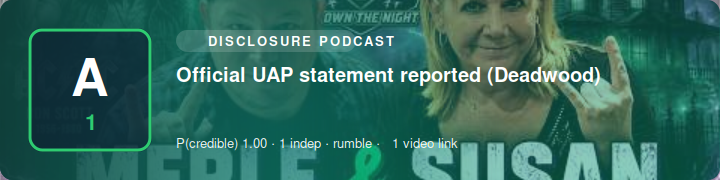
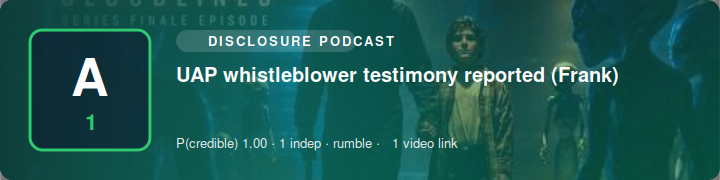
SITREP 2026-07-22 04:20 UTC

diff --git a/index.html b/index.html
@@ -1,1 +1,1 @@
-<!doctype html><meta charset=utf-8><title>Science Bob News — SITREP</title><style>body{font:16px/1.5 system-ui,sans-serif;max-width:760px;margin:2rem auto;padding:0 1rem;color:#111}h1{font-size:1.5rem}h2{margin-top:1.6rem;border-bottom:1px solid #ddd;padding-bottom:.2rem}ul{list-style:none;padding:0}li{margin:.9rem 0}.hl{font-weight:600}.meta{color:#555;font-size:.85rem}.src{font-size:.85rem}.vid{font-size:.85rem;margin-top:.15rem}.card{display:block;max-width:100%;height:auto;border-radius:8px;margin:.4rem 0 .5rem}.upd{background:#fde68a;padding:0 .3rem;border-radius:.2rem;font-size:.75rem}.sub{color:#777;font-size:.85rem}footer{color:#777;font-size:.8rem;margin-top:2rem;border-top:1px solid #ddd;padding-top:.6rem}</style><h1>🛸 Science Bob News</h1><div class="sub">UAP / UFO / USO SITREP · updated 2026-07-22 04:10 UTC · automated</div><h2>Corroborated</h2><ul><li><i>No corroborated reports.</i></li></ul><h2>Developing / unconfirmed</h2><ul><li><img class="card" src="https://n4hy.github.io/sciencebobnews-site/card_d_1.svg" alt="" width="720" height="180"><div class="hl">Official UAP statement reported (Newly)</div><div class="meta">reliability <b>A1</b> · P(credible)=1.0 · 1 independent source(s) · mastodon</div><div class="src"><a href="https://mastodon.au/@vibewire/116957536031397754">@vibewire@mastodon.au</a></div></li><li><img class="card" src="https://n4hy.github.io/sciencebobnews-site/card_d_2.svg" alt="" width="720" height="180"><div class="hl">UAP report</div><div class="meta">reliability <b>A1</b> · P(credible)=1.0 · 1 independent source(s) · mastodon</div><div class="src"><a href="https://mastodon.social/@inkican/116953294536957948">@inkican</a></div></li><li><img class="card" src="https://n4hy.github.io/sciencebobnews-site/card_d_3.svg" alt="" width="720" height="180"><div class="hl">Official UAP statement reported (Concrete)</div><div class="meta">reliability <b>A1</b> · P(credible)=1.0 · 1 independent source(s) · rumble</div><div class="src"><a href="https://www.youtube.com/watch?v=ze5dhbpzszY">@podcast</a></div><div class="vid">📹 <a href="https://www.youtube.com/watch?v=ze5dhbpzszY">video</a></div></li><li><img class="card" src="https://n4hy.github.io/sciencebobnews-site/card_d_4.svg" alt="" width="720" height="180"><div class="hl">Official UAP statement reported (Deadwood)</div><div class="meta">reliability <b>A1</b> · P(credible)=1.0 · 1 independent source(s) · rumble</div><div class="src"><a href="https://www.youtube.com/watch?v=9fXiv3_PjGY">@podcast</a></div><div class="vid">📹 <a href="https://www.youtube.com/watch?v=9fXiv3_PjGY">video</a></div></li><li><img class="card" src="https://n4hy.github.io/sciencebobnews-site/card_d_5.svg" alt="" width="720" height="180"><div class="hl">Official UAP statement reported (History)</div><div class="meta">reliability <b>A1</b> · P(credible)=1.0 · 1 independent source(s) · rumble</div><div class="src"><a href="https://www.youtube.com/watch?v=mVKGdqjpbf8">@podcast</a></div><div class="vid">📹 <a href="https://www.youtube.com/watch?v=mVKGdqjpbf8">video</a></div></li></ul><footer><b>Powered by Science Bob News.</b> Free to use with credit (see LICENSE). Headlines are factual restatements in the engine's own words; click sources for originals. Single-origin reposts collapse to one source; prosaic candidates flagged where offered.</footer>
+<!doctype html><meta charset=utf-8><title>Science Bob News — SITREP</title><style>body{font:16px/1.5 system-ui,sans-serif;max-width:760px;margin:2rem auto;padding:0 1rem;color:#111}h1{font-size:1.5rem}h2{margin-top:1.6rem;border-bottom:1px solid #ddd;padding-bottom:.2rem}ul{list-style:none;padding:0}li{margin:.9rem 0}.hl{font-weight:600}.meta{color:#555;font-size:.85rem}.src{font-size:.85rem}.vid{font-size:.85rem;margin-top:.15rem}.card{display:block;max-width:100%;height:auto;border-radius:8px;margin:.4rem 0 .5rem}.upd{background:#fde68a;padding:0 .3rem;border-radius:.2rem;font-size:.75rem}.sub{color:#777;font-size:.85rem}footer{color:#777;font-size:.8rem;margin-top:2rem;border-top:1px solid #ddd;padding-top:.6rem}</style><h1>🛸 Science Bob News</h1><div class="sub">UAP / UFO / USO SITREP · updated 2026-07-22 04:20 UTC · automated</div><h2>Corroborated</h2><ul><li><i>No corroborated reports.</i></li></ul><h2>Developing / unconfirmed</h2><ul><li><img class="card" src="https://n4hy.github.io/sciencebobnews-site/card_d_1.svg" alt="" width="720" height="180"><div class="hl">Official UAP statement reported (Newly)</div><div class="meta">reliability <b>A1</b> · P(credible)=1.0 · 1 independent source(s) · mastodon</div><div class="src"><a href="https://mastodon.au/@vibewire/116957536031397754">@vibewire@mastodon.au</a></div></li><li><img class="card" src="https://n4hy.github.io/sciencebobnews-site/card_d_2.svg" alt="" width="720" height="180"><div class="hl">UAP report</div><div class="meta">reliability <b>A1</b> · P(credible)=1.0 · 1 independent source(s) · mastodon</div><div class="src"><a href="https://mastodon.social/@inkican/116953294536957948">@inkican</a></div></li><li><img class="card" src="https://n4hy.github.io/sciencebobnews-site/card_d_3.svg" alt="" width="720" height="180"><div class="hl">UAP report (McMinnville)</div><div class="meta">reliability <b>A1</b> · P(credible)=1.0 · 1 independent source(s) · rumble</div><div class="src"><a href="https://www.youtube.com/watch?v=7OT6uJ0yzVY">@podcast</a></div><div class="vid">📹 <a href="https://www.youtube.com/watch?v=7OT6uJ0yzVY">video</a></div></li><li><img class="card" src="https://n4hy.github.io/sciencebobnews-site/card_d_4.svg" alt="" width="720" height="180"><div class="hl">UAP whistleblower testimony reported (Frank)</div><div class="meta">reliability <b>A1</b> · P(credible)=1.0 · 1 independent source(s) · rumble</div><div class="src"><a href="https://www.youtube.com/watch?v=CxvFVjJKZtA">@podcast</a></div><div class="vid">📹 <a href="https://www.youtube.com/watch?v=CxvFVjJKZtA">video</a></div></li><li><img class="card" src="https://n4hy.github.io/sciencebobnews-site/card_d_5.svg" alt="" width="720" height="180"><div class="hl">UAP whistleblower testimony reported (American)</div><div class="meta">reliability <b>A1</b> · P(credible)=1.0 · 1 independent source(s) · rumble</div><div class="src"><a href="https://www.youtube.com/watch?v=LPtMaGpuK-M">@podcast</a></div><div class="vid">📹 <a href="https://www.youtube.com/watch?v=LPtMaGpuK-M">video</a></div></li></ul><footer><b>Powered by Science Bob News.</b> Free to use with credit (see LICENSE). Headlines are factual restatements in the engine's own words; click sources for originals. Single-origin reposts collapse to one source; prosaic candidates flagged where offered.</footer>

diff --git a/sitrep.md b/sitrep.md
@@ -1,5 +1,5 @@
 # 🛸 Science Bob News — UAP / UFO / USO SITREP
-*Updated 2026-07-22 04:10 UTC · auto-generated · sources credited & linked · reliability ratings are automated, not editorial*
+*Updated 2026-07-22 04:20 UTC · auto-generated · sources credited & linked · reliability ratings are automated, not editorial*
 
 ## Corroborated
 _No corroborated reports this cycle._
@@ -14,20 +14,20 @@ _No corroborated reports this cycle._
 2. UAP report — reliability A1 · 1 source(s)  
    [@inkican](https://mastodon.social/@inkican/116953294536957948)
 
-![Official UAP statement reported (Concrete)](https://n4hy.github.io/sciencebobnews-site/card_d_3.svg)
-3. Official UAP statement reported (Concrete) — reliability A1 · 1 source(s)  
-   [@podcast](https://www.youtube.com/watch?v=ze5dhbpzszY)  
-   📹 [video](https://www.youtube.com/watch?v=ze5dhbpzszY)
+![UAP report (McMinnville)](https://n4hy.github.io/sciencebobnews-site/card_d_3.svg)
+3. UAP report (McMinnville) — reliability A1 · 1 source(s)  
+   [@podcast](https://www.youtube.com/watch?v=7OT6uJ0yzVY)  
+   📹 [video](https://www.youtube.com/watch?v=7OT6uJ0yzVY)
 
-![Official UAP statement reported (Deadwood)](https://n4hy.github.io/sciencebobnews-site/card_d_4.svg)
-4. Official UAP statement reported (Deadwood) — reliability A1 · 1 source(s)  
-   [@podcast](https://www.youtube.com/watch?v=9fXiv3_PjGY)  
-   📹 [video](https://www.youtube.com/watch?v=9fXiv3_PjGY)
+![UAP whistleblower testimony reported (Frank)](https://n4hy.github.io/sciencebobnews-site/card_d_4.svg)
+4. UAP whistleblower testimony reported (Frank) — reliability A1 · 1 source(s)  
+   [@podcast](https://www.youtube.com/watch?v=CxvFVjJKZtA)  
+   📹 [video](https://www.youtube.com/watch?v=CxvFVjJKZtA)
 
-![Official UAP statement reported (History)](https://n4hy.github.io/sciencebobnews-site/card_d_5.svg)
-5. Official UAP statement reported (History) — reliability A1 · 1 source(s)  
-   [@podcast](https://www.youtube.com/watch?v=mVKGdqjpbf8)  
-   📹 [video](https://www.youtube.com/watch?v=mVKGdqjpbf8)
+![UAP whistleblower testimony reported (American)](https://n4hy.github.io/sciencebobnews-site/card_d_5.svg)
+5. UAP whistleblower testimony reported (American) — reliability A1 · 1 source(s)  
+   [@podcast](https://www.youtube.com/watch?v=LPtMaGpuK-M)  
+   📹 [video](https://www.youtube.com/watch?v=LPtMaGpuK-M)
 
 ---
 *Powered by Science Bob News. Free to use with credit (see LICENSE). Headlines are factual restatements in the engine's own words — click through to the linked sources for originals. Reposts of a single origin are collapsed to one source; candidate prosaic explanations are flagged where offered.*
